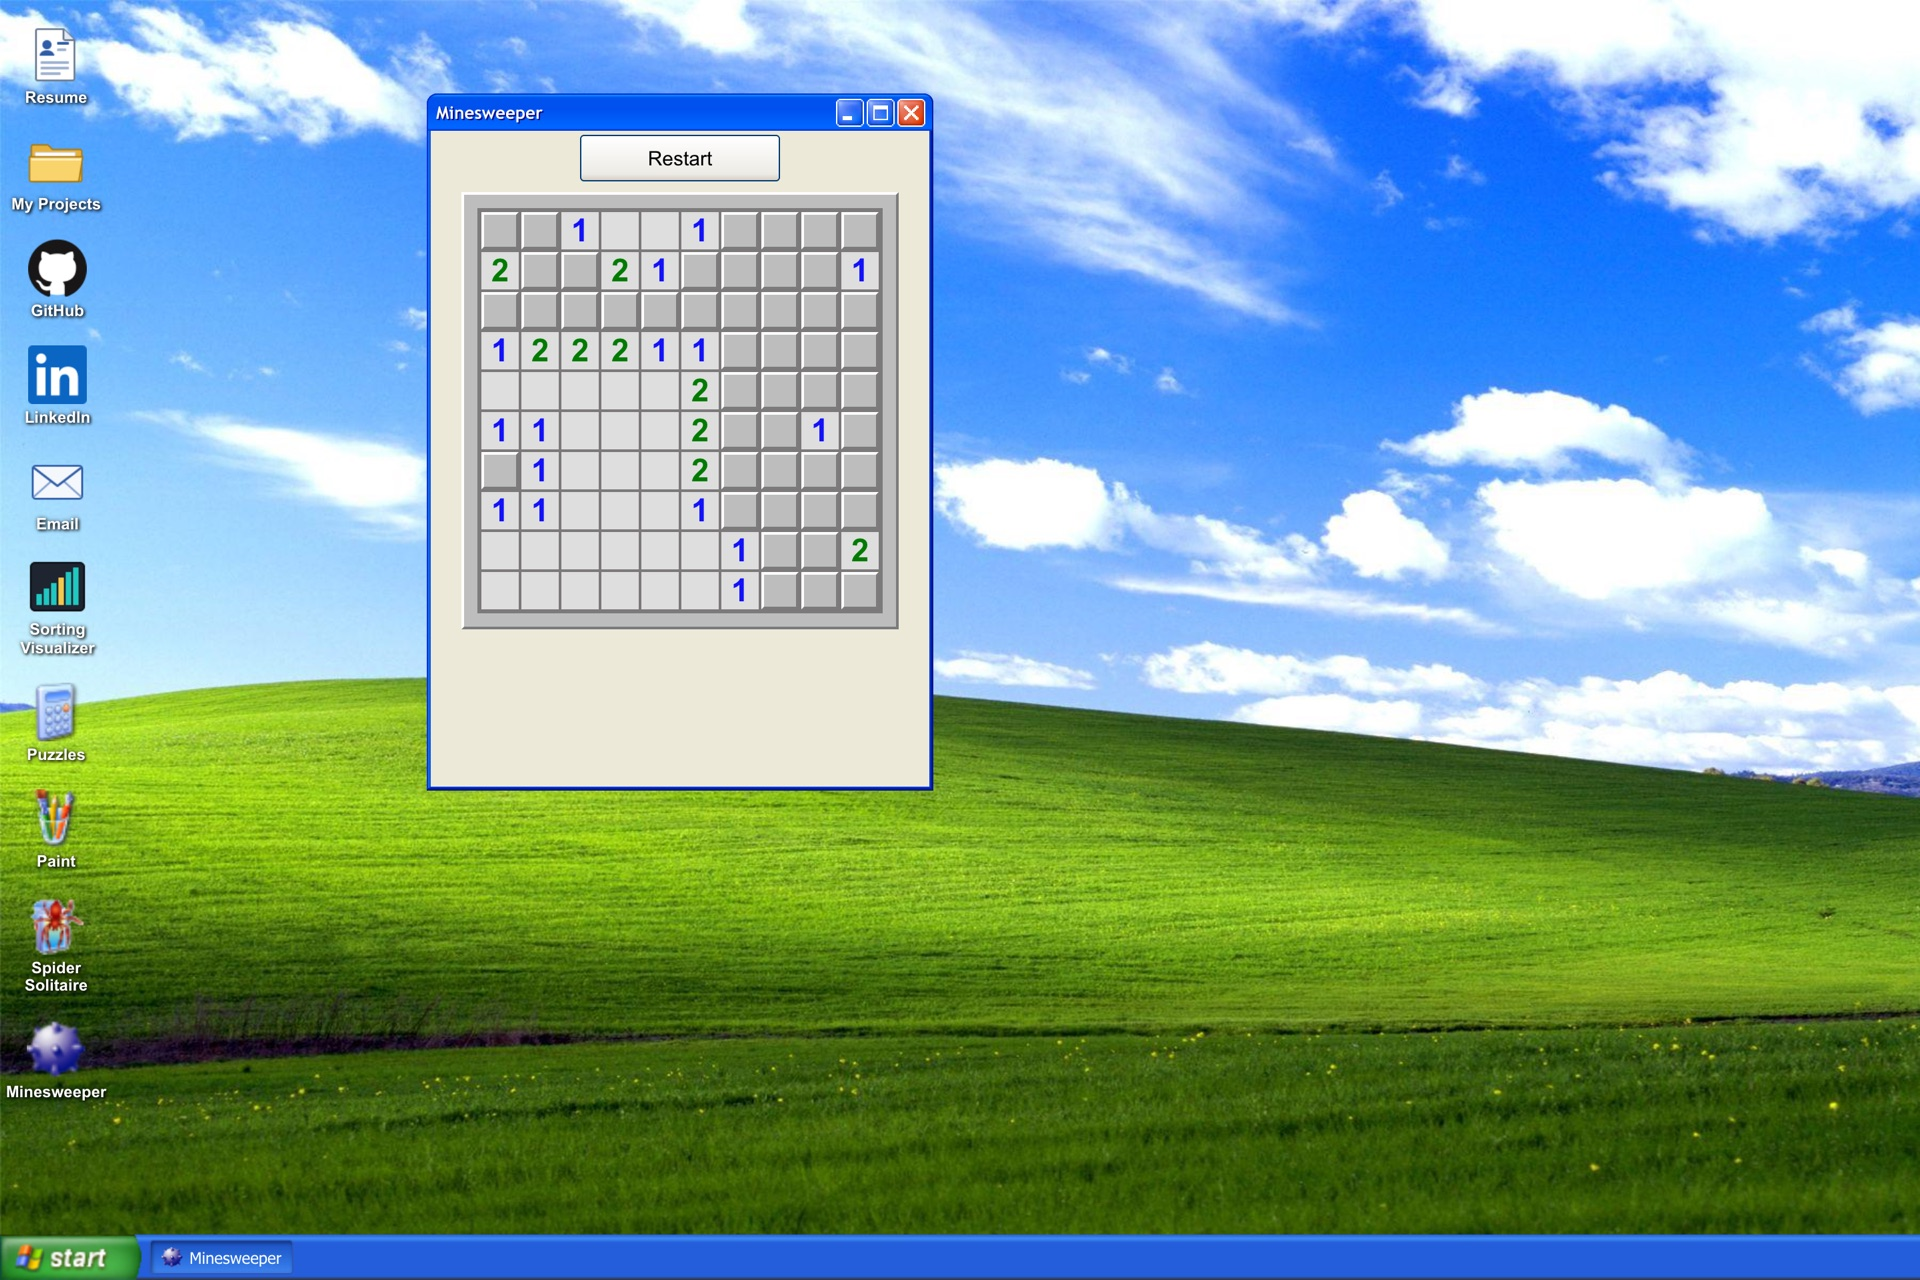
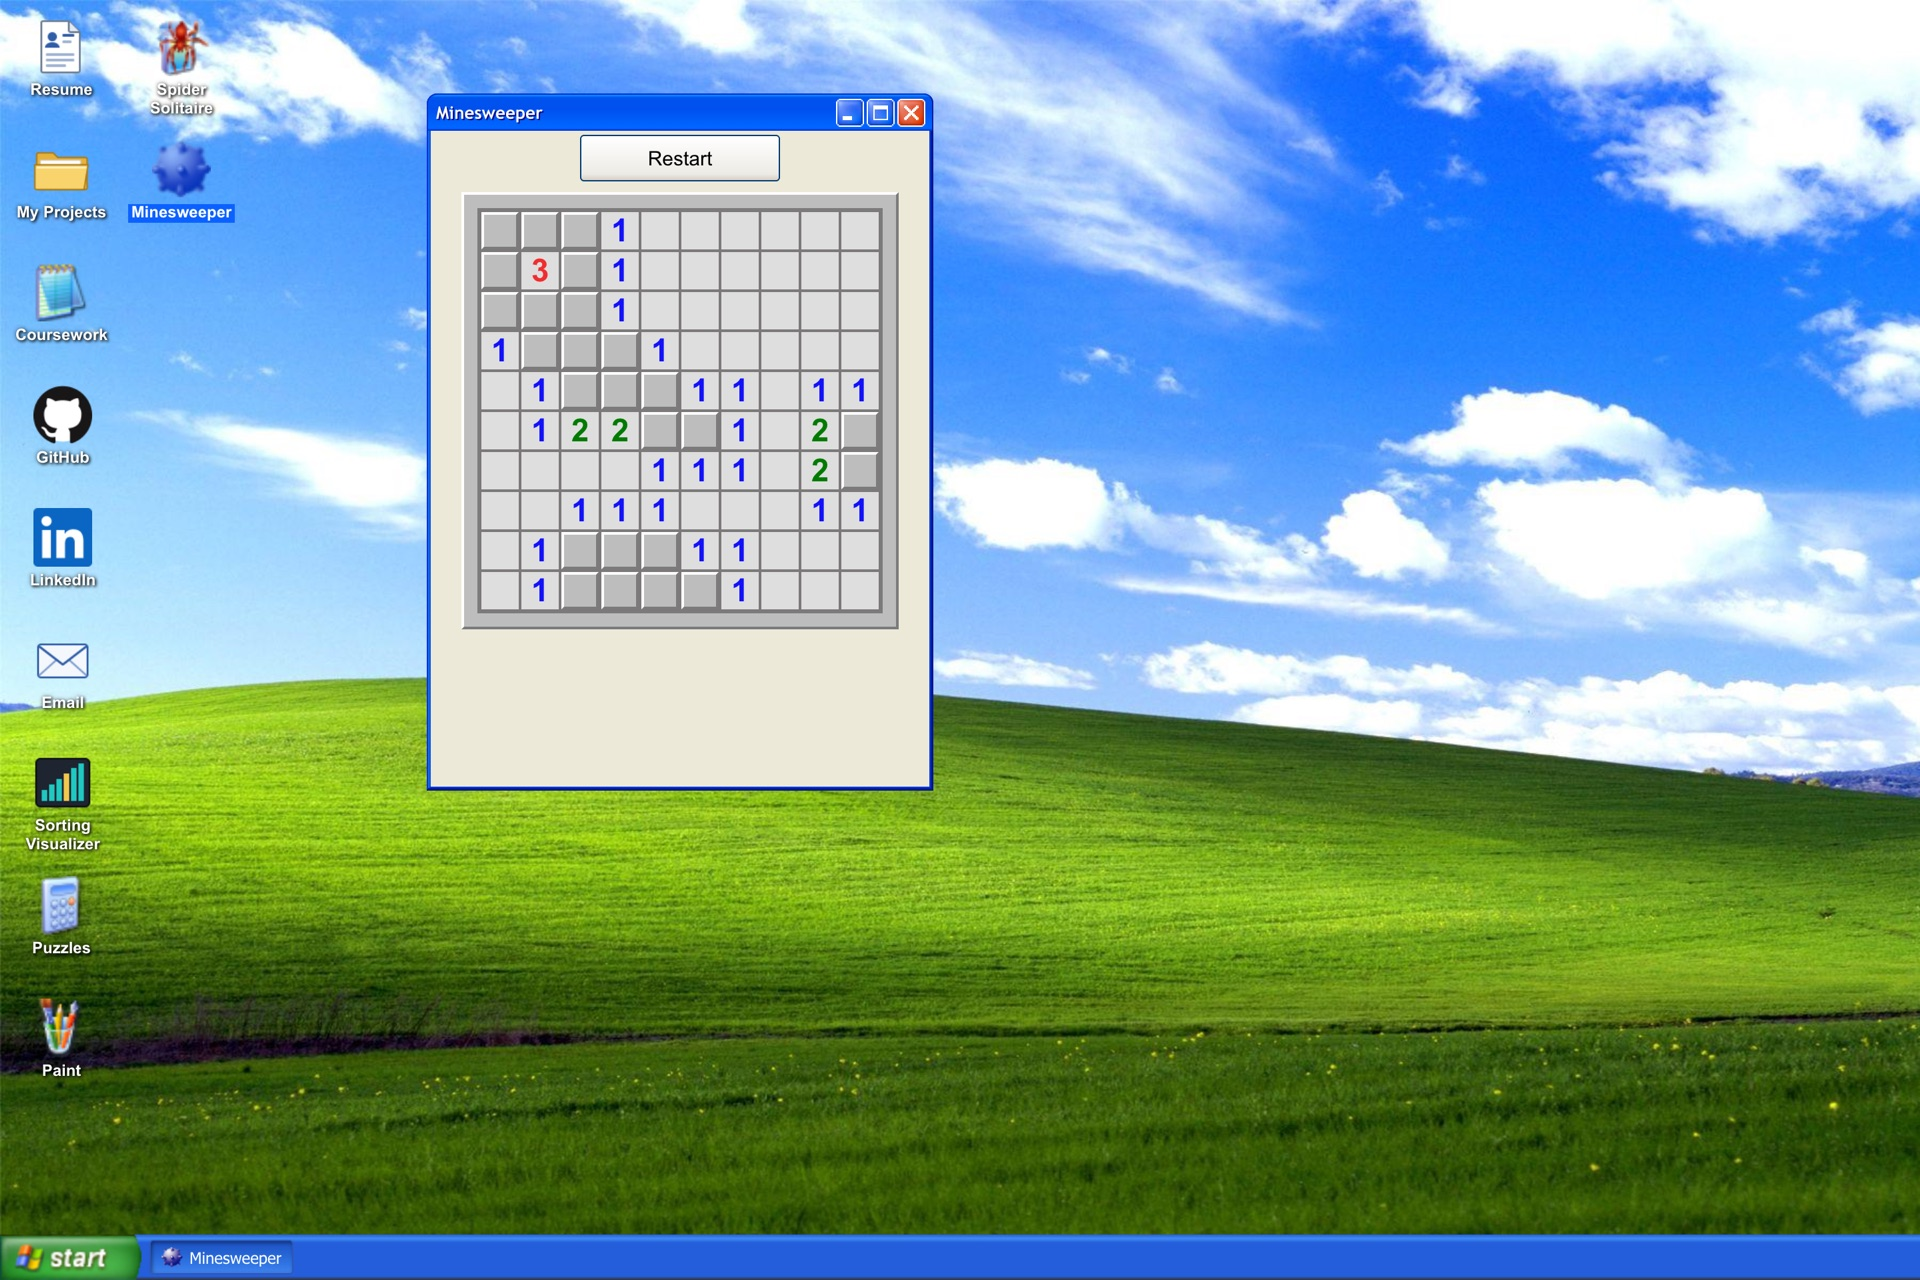
Refresh README screenshots and link preview image
Retake screenshots from the live site (new welcome header, Coursework
window, resume with the new domain) and replace the outdated 940 KB
link preview with a current 1200x630 JPEG.

Changed region(s): [[0.0, 0.0, 0.125, 0.875], [0.25, 0.1562, 0.4688, 0.5]]

diff --git a/public/index.html b/public/index.html
@@ -16,7 +16,7 @@
     <meta property="og:url" content="https://pranavsangani.online/" />
     <meta property="og:title" content="Pranav Sangani - Personal Website" />
     <meta property="og:description" content="Computer Science at Purdue. A Windows XP-style portfolio with my resume, projects, and a few classic games." />
-    <meta property="og:image" content="https://pranavsangani.online/preview.png" />
+    <meta property="og:image" content="https://pranavsangani.online/preview.jpg" />
     <meta property="og:image:width" content="1200" />
     <meta property="og:image:height" content="630" />
     <meta name="twitter:card" content="summary_large_image" />

diff --git a/README.md b/README.md
@@ -2,13 +2,14 @@
 
 # About
 I created this website with React to mimic Windows XP, which, in my completely unbiased opinion, is the most nostalgic
-operating system ever made. There are links to my resume, projects, GitHub, LinkedIn, and email, along with one of my
+operating system ever made. There are links to my resume, projects, coursework, GitHub, LinkedIn, and email, along with one of my
 favorite puzzles, classic MS Paint, Spider Solitaire, and Minesweeper (both of which I have spent hours on hours playing
 as a child). Building this website was a ton of fun and made me very nostalgic - hope you enjoy it as much as I do!
 
 ![Personal Website Preview](docs/preview.jpg)
 ![Resume Preview](docs/resume.jpg)
 ![Projects Preview](docs/projects.jpg)
+![Coursework Preview](docs/coursework.jpg)
 ![Puzzle Preview](docs/puzzle.jpg)
 ![Paint Preview](docs/paint.jpg)
 ![Minesweeper Preview](docs/minesweeper.jpg)
